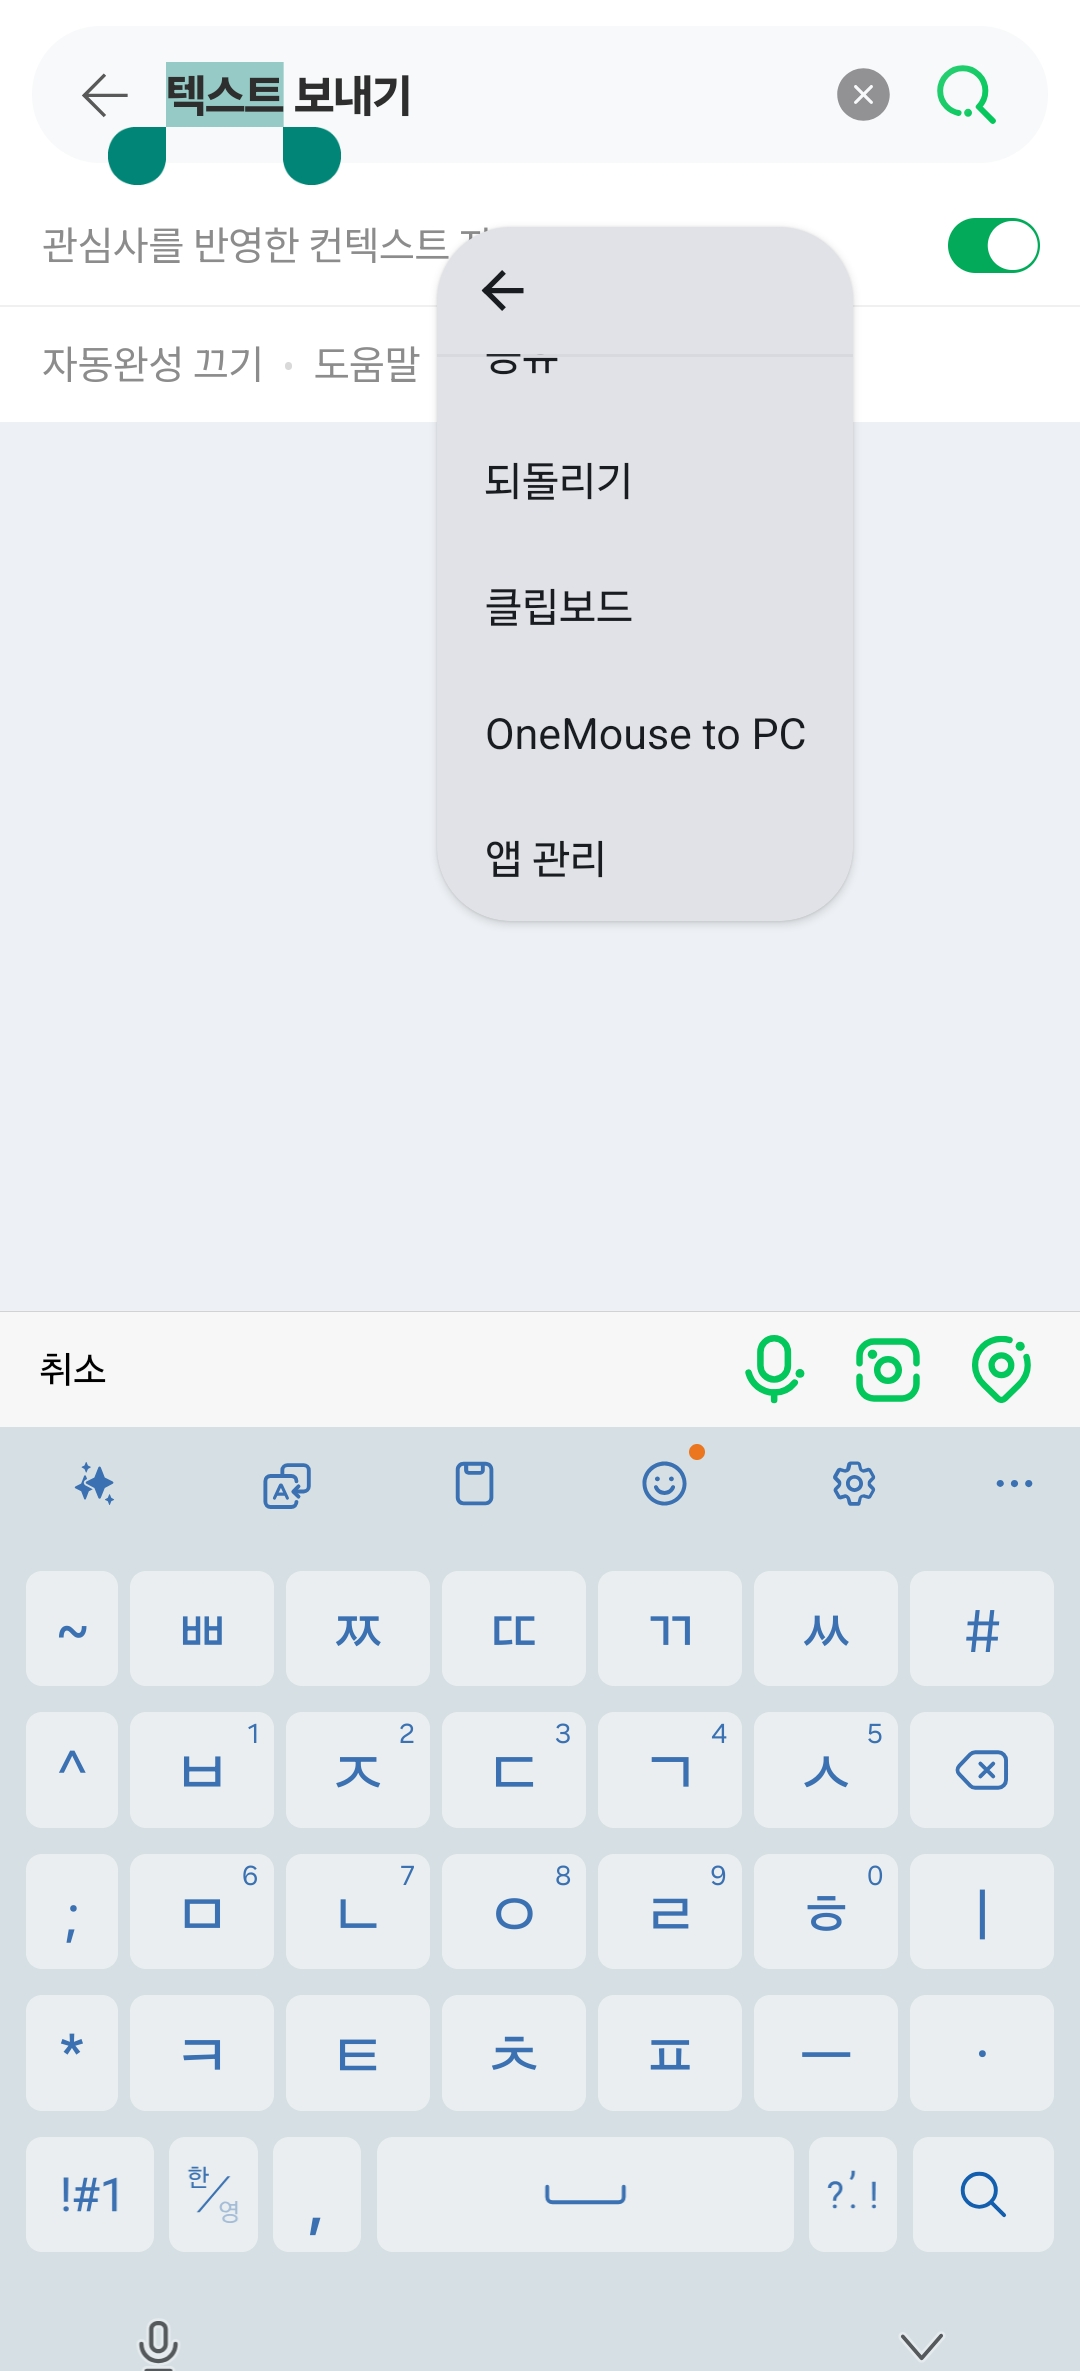
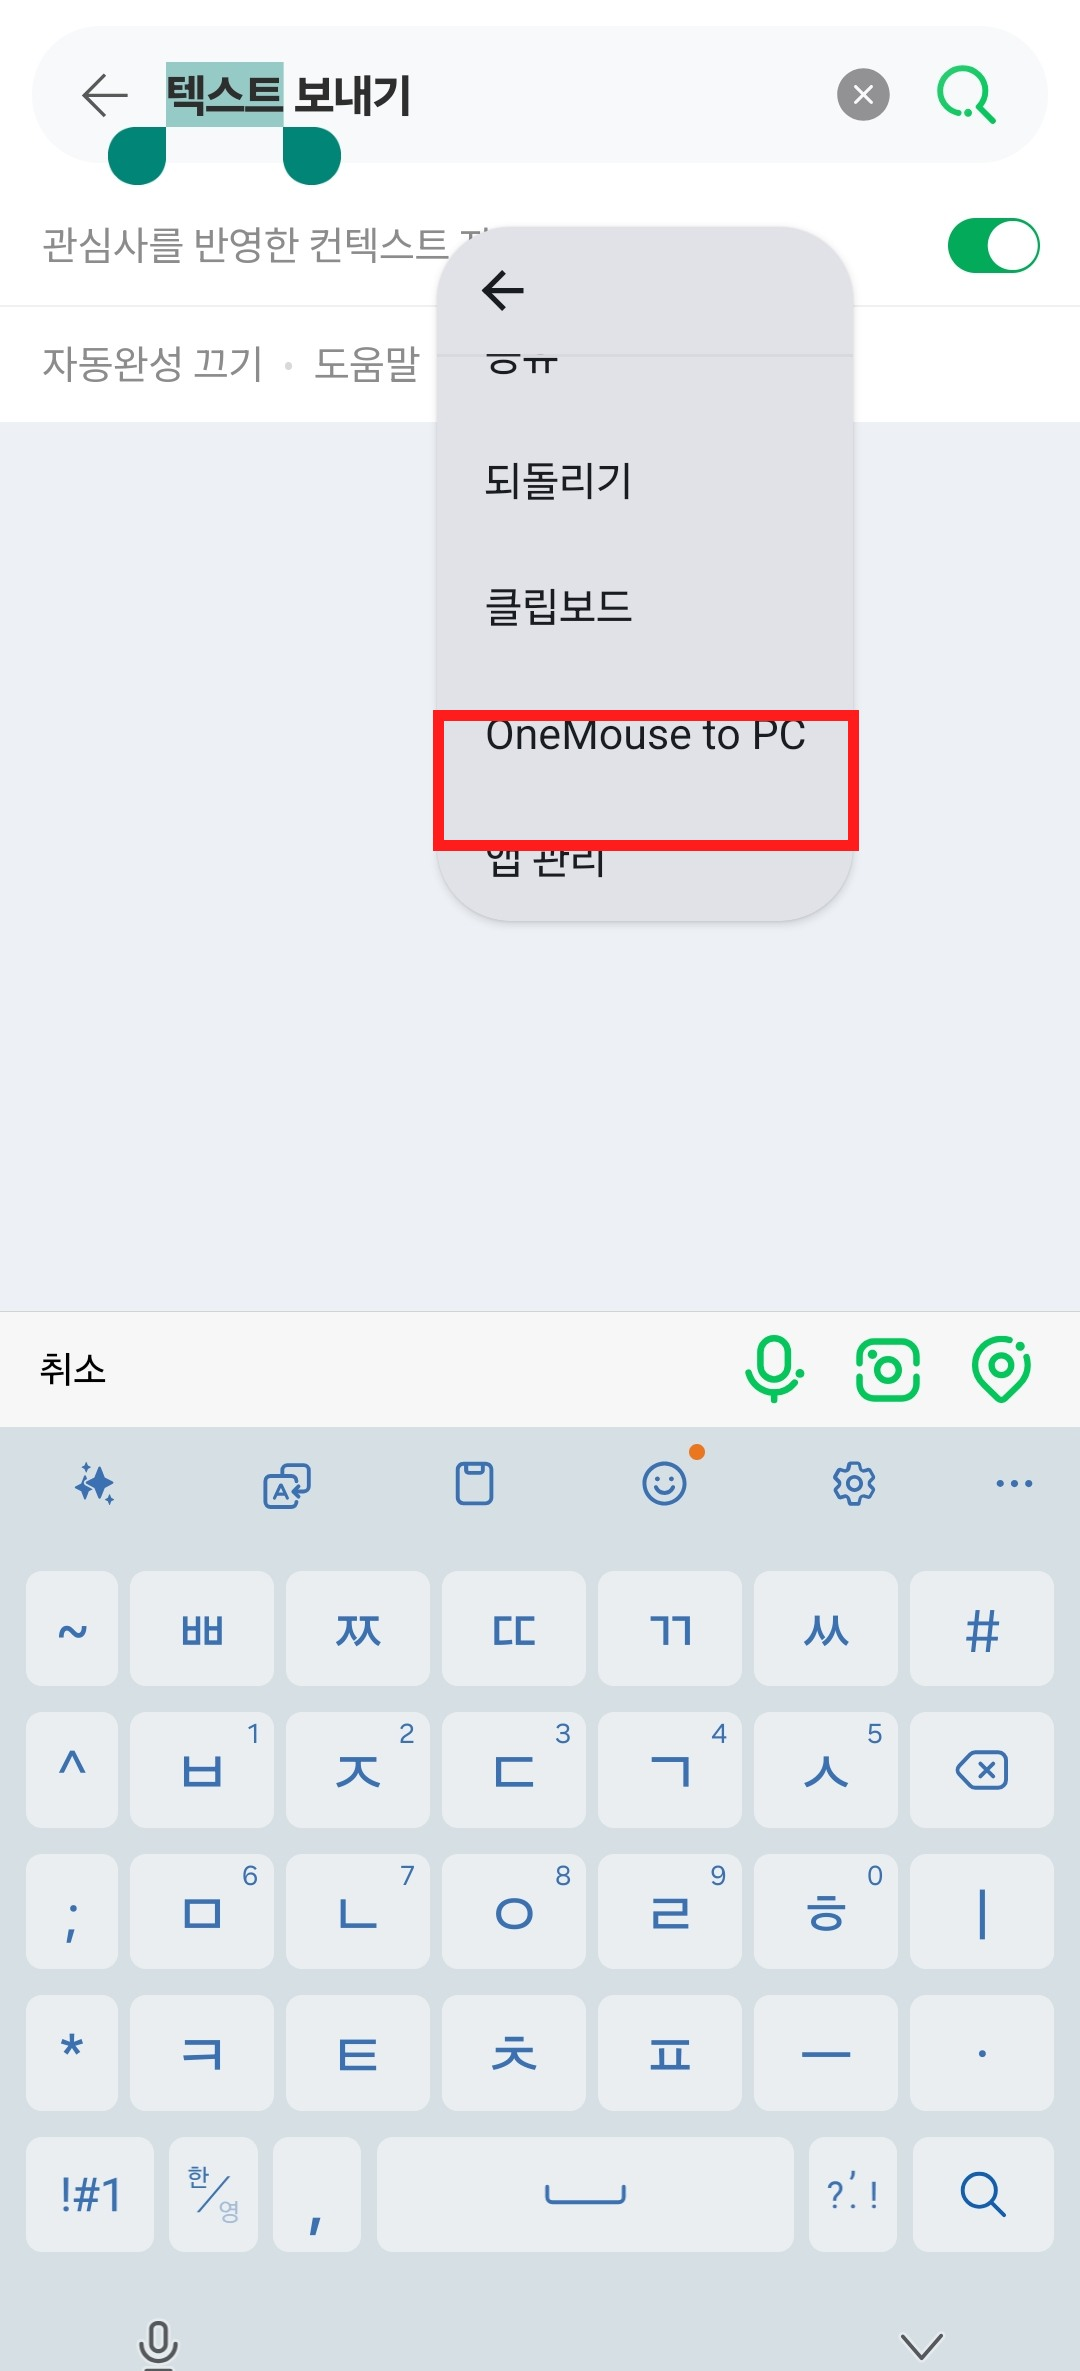
가이드 추가

Changed region(s): [[0.3972, 0.2809, 0.7944, 0.3745]]

diff --git a/guide.html b/guide.html
@@ -179,7 +179,7 @@
           <h2>Android에서 선택한 텍스트를 PC로 보냅니다.</h2>
           <p>삼성 키보드와 일부 앱에서는 OneMouse to PC가 더보기 메뉴 안에 있습니다. 처음 한 번은 앱 관리에서 One Mouse를 켜야 할 수 있습니다.</p>
         </div>
-        <div class="shot-row">
+        <div class="shot-row text-step-row">
           <figure class="shot-card shot-phone">
             <img src="./assets/text_to_pc_step_1.jpg" alt="Android에서 텍스트를 선택하고 더보기 메뉴를 여는 화면" />
             <figcaption>1. 텍스트를 꾹 눌러 선택하고 더보기를 엽니다.</figcaption>
@@ -195,6 +195,10 @@
           <figure class="shot-card shot-phone">
             <img src="./assets/text_to_pc_step_4.jpg" alt="더보기 메뉴에서 OneMouse to PC를 누르는 화면" />
             <figcaption>4. OneMouse to PC를 눌러 PC 클립보드로 보냅니다.</figcaption>
+          </figure>
+          <figure class="shot-card shot-phone">
+            <img src="./assets/text_to_pc_step_5.jpg" alt="PC 클립보드로 보냈다는 완료 토스트가 표시된 화면" />
+            <figcaption>5. 완료 메시지가 보이면 PC에서 바로 붙여넣을 수 있습니다.</figcaption>
           </figure>
         </div>
       </div>

diff --git a/css/style.css b/css/style.css
@@ -334,6 +334,10 @@ figure {
   grid-template-columns: repeat(4, minmax(0, 1fr));
 }
 
+.shot-row.text-step-row {
+  grid-template-columns: repeat(5, minmax(0, 1fr));
+}
+
 .guide-grid,
 .help-grid,
 .download-grid,
@@ -802,6 +806,7 @@ figure {
   .update-grid,
   .feature-grid,
   .shot-row,
+  .shot-row.text-step-row,
   .download-grid {
     grid-template-columns: repeat(2, minmax(0, 1fr));
   }
@@ -906,6 +911,7 @@ figure {
   .update-grid,
   .feature-grid,
   .shot-row,
+  .shot-row.text-step-row,
   .shot-grid,
   .download-grid {
     grid-template-columns: 1fr;
